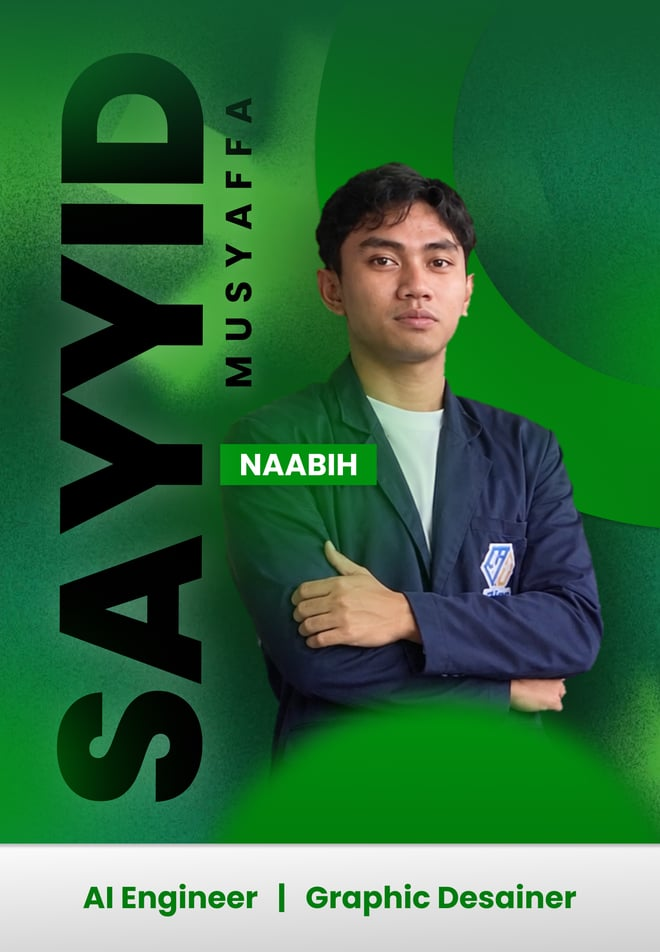
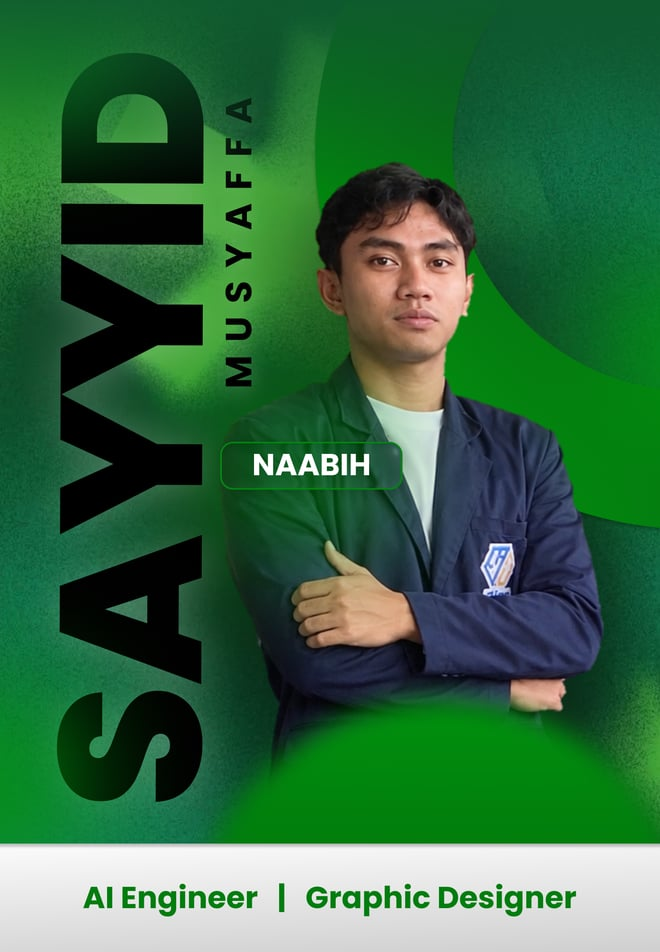
Swap card photo to profile-mainnew and drop HTML name block
The new artwork already includes name/title, so remove the duplicated
id-card-body (name + title) from the card and regenerate the WebP/JPG
from profile-mainnew.png (kept on disk, untracked).

🤖 Generated with Codebuff

Changed region(s): [[0.3333, 0.4569, 0.6061, 0.5179], [0.7576, 0.9139, 0.7879, 0.9748], [0.6061, 0.4874, 0.6364, 0.5179]]

diff --git a/index.html b/index.html
@@ -62,10 +62,6 @@
           <div class="id-card-photo-wrap">
             <img src="images/profile-main.webp" onerror="this.onerror=null;this.src='images/profile-main.jpg'" alt="Sayyid Naabih Musyaffa" />
           </div>
-          <div class="id-card-body">
-            <h3 class="id-card-name">Sayyid Naabih Musyaffa</h3>
-            <p class="id-card-title">AI Engineer &amp; Graphic Designer</p>
-          </div>
         </div>
       </div>
     </div>
